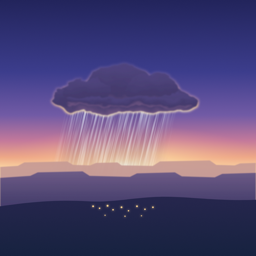
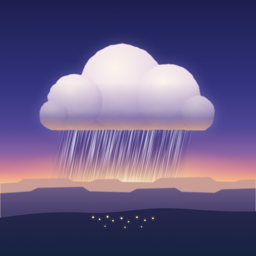
Rename the app to Dawn (decision 0067)
Support and privacy pages now say Dawn; the developer is "the app's developer".
Support answers re-checked against the current app; new app icon.

diff --git a/index.html b/index.html
@@ -3,8 +3,8 @@
 <head>
 <meta charset="utf-8">
 <meta name="viewport" content="width=device-width, initial-scale=1">
-<title>Nimbus — Support</title>
-<meta name="description" content="Help with Nimbus: places, the next hour, plans, widgets, Apple Watch and your data.">
+<title>Dawn: Weather &amp; Rain — Support</title>
+<meta name="description" content="Help with Dawn: places, the next hour, plans, widgets, Apple Watch and your data.">
 <link rel="icon" href="icon-256.png">
 <style>
   :root {
@@ -41,41 +41,41 @@
 <body>
 <main>
   <img class="icon" src="icon-256.png" alt="">
-  <h1>Nimbus</h1>
+  <h1>Dawn</h1>
   <p class="lede">Australian weather, explained for your day. On iPhone and Apple Watch, with forecasts from Apple Weather.</p>
 
   <div class="card">
     <p><strong>Need help?</strong> Email <a href="mailto:csergay@gmail.com">csergay@gmail.com</a>. Please say which screen you were on, roughly when it happened, and which device you're using. Please don't include your home address.</p>
-    <p>For a problem with the app itself, you can attach the diagnostic report: in Nimbus, open <strong>Settings › Privacy and support › Diagnostic report</strong> and share it. It never contains your location, places or searches.</p>
+    <p>For a problem with the app itself, you can attach the diagnostic report: in Dawn, open <strong>Settings › Privacy and support › Diagnostic report</strong> and share it. It never contains your location, places or searches.</p>
   </div>
 
   <h2>Getting started</h2>
   <ol>
     <li>Choose <strong>Use my location</strong>, or search for an Australian suburb to add a place. You can save up to five places, and none of them needs background location.</li>
     <li>Swipe between <strong>Now</strong>, <strong>Day</strong> and <strong>Week</strong>. Hold the timeline on Now to see any hour of the next day play out.</li>
-    <li>Add your plans (a morning run, the school pickup, washing on the line) and Nimbus says whether each looks good, OK or poor, and when a better time is close.</li>
+    <li>Add your plans under <strong>Your day</strong> on Now, or in <strong>Settings › Your plans</strong> (a morning run, the school pickup, washing on the line), and Dawn says whether each looks good, OK or poor, and when a better time is close.</li>
   </ol>
 
   <h2>Questions</h2>
   <dl>
     <dt>Why don't I see the next hour minute by minute?</dt>
-    <dd>Apple Weather only offers minute-by-minute rain for some areas. Where it doesn't, Nimbus shows the hourly chance of rain instead and says so.</dd>
+    <dd>Apple Weather only offers minute-by-minute rain for some areas. Where it doesn't, Dawn shows the hourly chance of rain instead and says so.</dd>
     <dt>Where do the forecasts come from?</dt>
     <dd>Every forecast comes from Apple Weather, requested by your iPhone or Apple Watch. Forecasts can be wrong and showers can be missed.</dd>
-    <dt>Does Nimbus send weather warnings?</dt>
-    <dd>Nimbus shows severe-weather warnings for the place you're viewing when its forecast updates, but it doesn't monitor for new warnings or alert you to them. For severe weather and emergencies, follow official warnings from the Bureau of Meteorology and your state's emergency services.</dd>
+    <dt>Does Dawn send weather warnings?</dt>
+    <dd>Dawn shows severe-weather warnings for the place you're viewing when its forecast updates, but it doesn't monitor for new warnings or alert you to them. For severe weather and emergencies, follow official warnings from the Bureau of Meteorology and your state's emergency services.</dd>
     <dt>Widgets</dt>
-    <dd>Touch and hold your Home Screen or Lock Screen, tap Edit › Add Widget, and choose Nimbus. Then touch and hold the widget, choose Edit Widget, and pick one of your saved places. iOS decides how often widgets refresh, and opening Nimbus updates them straight away. Tapping a widget opens Day for that place.</dd>
+    <dd>Touch and hold your Home Screen, tap Edit › Add Widget and choose Dawn. For the Lock Screen, touch and hold it, tap Customise and add a Dawn widget. Then touch and hold the widget, choose Edit Widget, and pick one of your saved places; widgets show saved places, not your current location. Open a place's Day forecast in Dawn once before using its widget. iOS decides how often widgets refresh, and opening Dawn updates them straight away. Tapping a widget opens Day for that place.</dd>
     <dt>The rain Live Activity</dt>
-    <dd>When Nimbus is open and Apple's next hour says rain will start soon, the countdown follows you to the Lock Screen and Dynamic Island. It ends when the rain is over. Nimbus can't update it in the background, so once its forecast is ten minutes old it says it's out of date until you open Nimbus again.</dd>
+    <dd>When Dawn is open and Apple's next hour says rain will start soon, the countdown follows you to the Lock Screen and Dynamic Island. It ends when the rain is over. Dawn can't update it in the background, so once its forecast is ten minutes old it says it's out of date until you open Dawn again.</dd>
     <dt>Siri and Shortcuts</dt>
-    <dd>Ask Siri “Will it rain soon in Nimbus”, or find Nimbus's actions in the Shortcuts app.</dd>
+    <dd>Ask Siri “Will it rain soon in Dawn” or “How's my day in Dawn”, or find Dawn's actions in the Shortcuts app.</dd>
     <dt>Apple Watch</dt>
-    <dd>The watch app shows the next walk and your plans, with complications for temperature, rain, daylight and your next plan. It fetches its own forecasts and works without your iPhone nearby. Your iPhone shares the place on screen and your plans with it.</dd>
+    <dd>The watch app shows the next walk and your plans, with complications for temperature, rain, daylight and your next plan. It fetches its own forecasts and works without your iPhone nearby. Your iPhone shares the place on screen, your plans, walking preferences and theme with it.</dd>
     <dt>The morning message and the calendar check</dt>
-    <dd>Both are optional and off until you turn them on in Your plans. The morning message is one notification a day with the day's verdicts. The calendar check reads today's and tomorrow's events on your iPhone to judge the outdoor ones; event details are never stored or sent.</dd>
+    <dd>Both are optional and off until you turn them on in <strong>Settings › Your plans</strong>. The morning message is one notification a day with the day's verdicts. The calendar check reads today's and tomorrow's events on your iPhone to judge the outdoor ones; event details are never stored or sent.</dd>
     <dt>Removing your data</dt>
-    <dd>In Nimbus, choose <strong>Settings › Remove my places and data</strong>. It erases your places, plans, pending morning messages and stored forecasts on this iPhone, even offline. Your Apple Watch forgets them the next time it hears from your iPhone. Deleting the app removes everything else Nimbus stored.</dd>
+    <dd>In Dawn, choose <strong>Settings › Remove my places and data</strong>. It erases your places, current area, plans, pending morning messages and stored forecasts on this iPhone, even offline. Your Apple Watch forgets them the next time it hears from your iPhone. Deleting the app removes everything else Dawn stored.</dd>
   </dl>
 
   <footer>

diff --git a/privacy.html b/privacy.html
@@ -3,8 +3,8 @@
 <head>
 <meta charset="utf-8">
 <meta name="viewport" content="width=device-width, initial-scale=1">
-<title>Nimbus — Privacy Policy</title>
-<meta name="description" content="Nimbus has no server, no accounts and no tracking. What it sends to Apple, and what stays on your device.">
+<title>Dawn: Weather &amp; Rain — Privacy Policy</title>
+<meta name="description" content="Dawn has no server, no accounts and no tracking. What it sends to Apple, and what stays on your device.">
 <link rel="icon" href="icon-256.png">
 <style>
   :root {
@@ -38,25 +38,25 @@
 <body>
 <main>
   <h1>Privacy Policy</h1>
-  <p class="lede">Last updated 27 October 2026</p>
+  <p class="lede">Last updated 28 October 2026</p>
 
-  <p>Nimbus shows Australian weather forecasts and judges them for your own plans, on your iPhone and Apple Watch. <strong>Nimbus has no server, no accounts, no advertising, no analytics and no tracking, and it doesn't sell or share your information.</strong> Its developer receives nothing from the app unless you send it yourself.</p>
+  <p>Dawn shows Australian weather forecasts and judges them for your own plans, on your iPhone and Apple Watch. <strong>Dawn has no server, no accounts, no advertising, no analytics and no tracking, and it doesn't sell or share your information.</strong> The app's developer receives nothing from the app unless you send it yourself.</p>
 
   <h2>What leaves your device</h2>
   <p>Only the requests needed to show the forecast, all of them to Apple:</p>
   <ul>
-    <li><strong>Weather.</strong> Nimbus divides the map into neighbourhoods of about 0.7 km². For a forecast it sends Apple Weather (WeatherKit) the centre of your neighbourhood, never your exact position.</li>
+    <li><strong>Weather.</strong> Dawn divides the map into neighbourhoods of about 0.7 km². For a forecast it sends Apple Weather (WeatherKit) the centre of your neighbourhood, never your exact position.</li>
     <li><strong>Place names.</strong> Apple's geocoder receives the same neighbourhood centre to name the suburb and its local time zone. When you search for a place, the text you type is sent to Apple's geocoder to find it.</li>
     <li><strong>Apple's attribution mark</strong> is downloaded from Apple so it can be displayed. This request carries no information about you.</li>
   </ul>
-  <p>Apple's own privacy policy governs these requests. Nimbus doesn't send anything to its developer or to any other company.</p>
+  <p>Apple's own privacy policy governs these requests. Dawn doesn't send anything to the app's developer or to any other company.</p>
 
   <h2>What stays on your device</h2>
   <ul>
-    <li><strong>Your location.</strong> When you choose current location, iOS gives Nimbus your position while the app is open. Nimbus turns it into the neighbourhood and keeps no location history. It never asks for location in the background.</li>
+    <li><strong>Your location.</strong> When you choose current location, iOS gives Dawn your position while the app is open. Dawn turns it into the neighbourhood and keeps no location history. It never asks for location in the background.</li>
     <li><strong>Saved places</strong> (up to five): each neighbourhood, its label and its local time zone.</li>
     <li><strong>Plans and settings:</strong> your plans, walking preferences, theme and morning-message time.</li>
-    <li><strong>Calendar (optional).</strong> If you turn on the calendar check, Nimbus reads today's and tomorrow's events on your iPhone to judge the outdoor ones at the place on screen. Event details aren't stored, sent or looked up; Nimbus keeps only your on/off choice for each event until the event has passed.</li>
+    <li><strong>Calendar (optional).</strong> If you turn on the calendar check, Dawn reads today's and tomorrow's events on your iPhone to judge the outdoor ones at the place on screen. Event details aren't stored, sent or looked up; Dawn keeps only your on/off choice for each event until the event has passed.</li>
     <li><strong>Forecasts</strong> for the places you view, shared with the widgets. A forecast is reused for 30 minutes, shown with its update time for up to three hours, and then replaced. The minute-by-minute next hour is used for at most 20 minutes after Apple issues it. Forecasts aren't archived.</li>
     <li><strong>Morning message (optional).</strong> One local notification a day, prepared on your iPhone. Nothing is sent through a push service.</li>
     <li><strong>Rain Live Activity.</strong> Started and updated by the app on your iPhone while it is open. It uses no push service.</li>
@@ -66,13 +66,13 @@
 
   <h2>Your choices</h2>
   <ul>
-    <li>Location, calendar and notifications are all optional, and Nimbus asks for each only when you turn on the feature that needs it. You can use saved places without location access, and change any permission in iPhone Settings.</li>
+    <li>Location, calendar and notifications are all optional, and Dawn asks for each only when you turn on the feature that needs it. You can use saved places without location access, and change any permission in iPhone Settings.</li>
     <li><strong>Settings › Remove my places and data</strong> erases, on this iPhone and without a network connection, your saved places, current neighbourhood, plans, any pending morning messages and the stored forecasts used by the app and widgets. Your paired Apple Watch forgets the place and plans your iPhone sent it, and its stored forecasts, the next time it hears from your iPhone.</li>
-    <li>Deleting Nimbus removes everything it stored on that device.</li>
+    <li>Deleting Dawn removes everything it stored on that device.</li>
   </ul>
 
   <h2>Children</h2>
-  <p>Nimbus doesn't knowingly collect information from anyone, including children.</p>
+  <p>Dawn doesn't knowingly collect information from anyone, including children.</p>
 
   <h2>Changes to this policy</h2>
   <p>If this policy changes, the updated version will be posted at this address with a new date at the top before the change reaches the app.</p>
